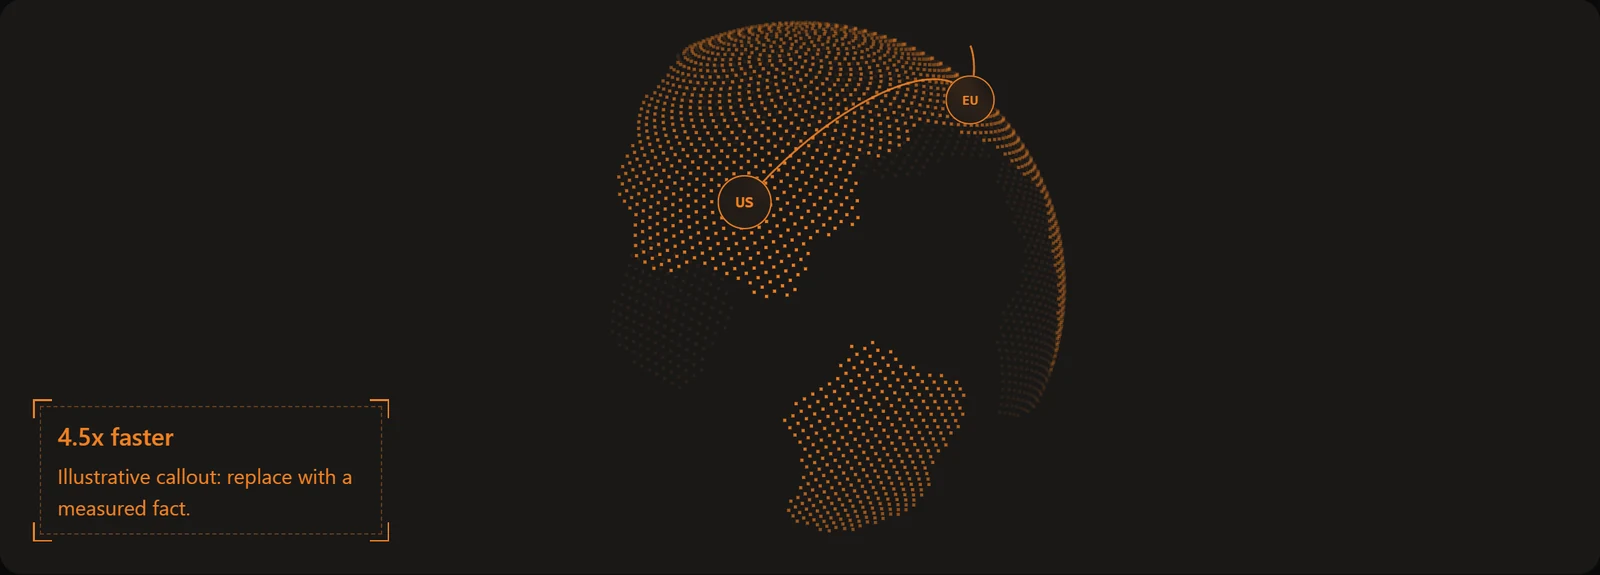
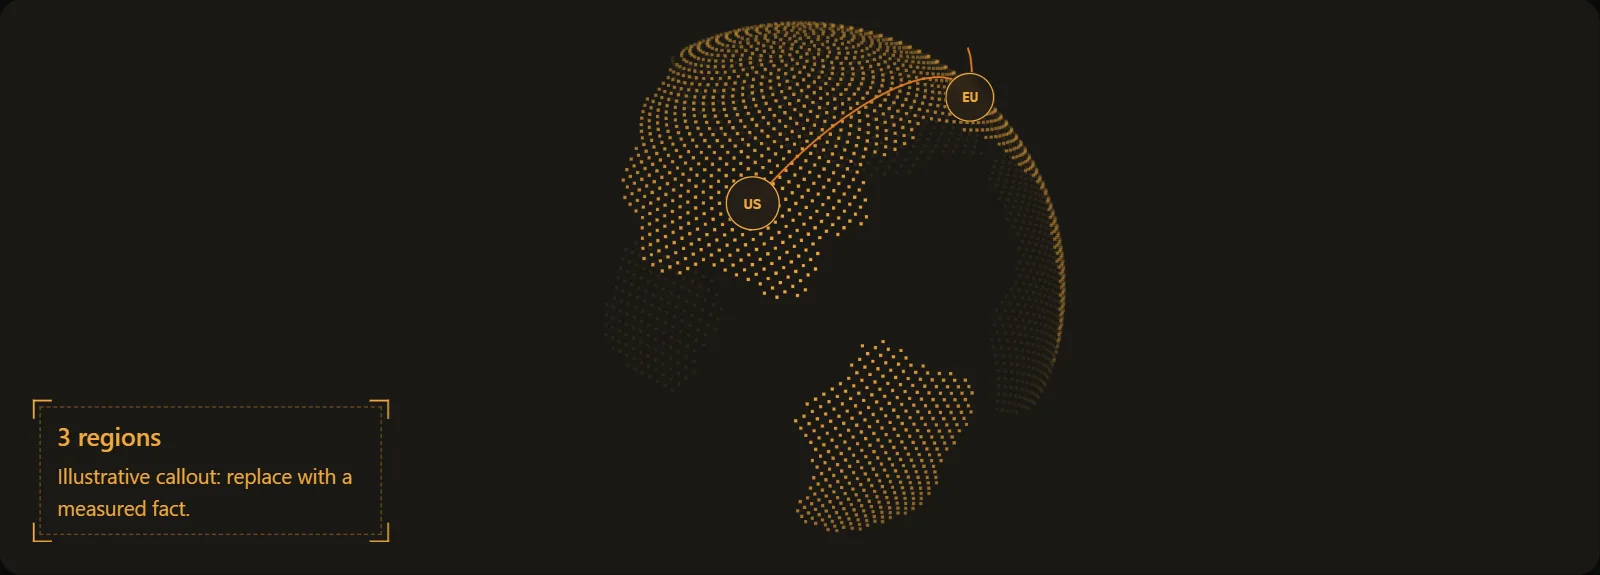
docs(effects): rebuild the gallery around a neutral placeholder product
Replace third-party product content in the effects gallery with the Lumen
placeholder used by the reference page, drop the source-site mention from the
effects library, and re-shoot the README effect images.

diff --git a/skills/better-design/assets/effects/gallery.html b/skills/better-design/assets/effects/gallery.html
@@ -49,23 +49,23 @@
   .stack-controls { display: flex; gap: 12px; align-items: center; margin-top: 16px; }
   .fx-rails { padding-block: 72px; }
   /* dot language demo layout */
-  .warm { --bg: #141312; background: #141312; }
-  .dot-panel { position: relative; border-radius: 16px; padding: 72px 24px; text-align: center; background: #191817; border: 1px solid rgb(240 227 222 / 0.1); }
+  .warm { --bg: #15130f; background: #15130f; }
+  .dot-panel { position: relative; border-radius: 16px; padding: 72px 24px; text-align: center; background: #1a1814; border: 1px solid rgb(240 230 214 / 0.1); }
   .dot-panel h2 { position: relative; }
   .matrix-host { position: relative; height: 180px; }
-  .globe-wrap { position: relative; height: 420px; overflow: hidden; border-radius: 16px; background: #191817; }
+  .globe-wrap { position: relative; height: 420px; overflow: hidden; border-radius: 16px; background: #1a1814; }
   .globe-host { position: absolute; inset: 0; }
-  .marker { width: 40px; height: 40px; border-radius: 50%; border: 1px solid #f38020; background: rgb(25 24 23 / 0.6); backdrop-filter: blur(6px); display: grid; place-items: center; color: #f38020; font: 600 12px/1 ui-monospace, monospace; pointer-events: none; }
-  .globe-callout { position: absolute; left: 24px; bottom: 24px; color: #f38020; max-width: 260px; text-align: left; background-color: rgb(25 24 23 / 0.7); }
+  .marker { width: 40px; height: 40px; border-radius: 50%; border: 1px solid #f2a93b; background: rgb(26 24 20 / 0.6); backdrop-filter: blur(6px); display: grid; place-items: center; color: #f2a93b; font: 600 12px/1 ui-monospace, monospace; pointer-events: none; }
+  .globe-callout { position: absolute; left: 24px; bottom: 24px; color: #f2a93b; max-width: 260px; text-align: left; background-color: rgb(26 24 20 / 0.7); }
   .globe-callout b { display: block; font-size: 18px; font-weight: 500; margin-bottom: 4px; }
-  .band { color: #f38020; padding: 24px; border-radius: 16px; background: #191817; }
-  .bars { height: 120px; color: rgb(255 255 255 / 0.55); background: #f06a1d; border-radius: 16px; }
+  .band { color: #f2a93b; padding: 24px; border-radius: 16px; background: #1a1814; }
+  .bars { height: 120px; color: rgb(255 255 255 / 0.55); background: #d98f2b; border-radius: 16px; }
   .led-row { display: flex; gap: 28px; align-items: center; flex-wrap: wrap; color: #e4e5e9; }
   .led-row span { display: inline-flex; gap: 10px; align-items: center; font-size: 13px; color: var(--body); }
   .bolt-grid { display: grid; grid-template-columns: repeat(auto-fit, minmax(220px, 1fr)); }
-  .bolt-grid > div { padding: 28px; border-right: 1px solid rgb(240 227 222 / 0.1); }
+  .bolt-grid > div { padding: 28px; border-right: 1px solid rgb(240 230 214 / 0.1); }
   .bolt-grid > div:last-child { border-right: 0; }
-  .comet-card { padding: 24px; border-radius: 16px; background: #191817; border: 1px solid rgb(240 227 222 / 0.1); max-width: 420px; --fx-comet-color: #f38020; }
+  .comet-card { padding: 24px; border-radius: 16px; background: #1a1814; border: 1px solid rgb(240 230 214 / 0.1); max-width: 420px; --fx-comet-color: #f2a93b; }
   .chips { display: flex; gap: 10px; overflow-x: auto; scrollbar-width: none; padding-block: 4px; }
   .chips::-webkit-scrollbar { display: none; }
   .chips > span { flex: none; padding: 8px 14px; border-radius: 99px; border: 1px solid rgb(255 255 255 / 0.14); color: var(--body); font-size: 14px; }
@@ -84,7 +84,7 @@
 
 <header class="fx-header" id="hdr">
   <nav class="fx-header__bar" aria-label="Demo">
-    <a class="logo" href="#">Kumo-like</a><a href="#field">Field</a><a href="#bake">Bake</a><a href="#ruler">Ruler</a><a href="#stack">Stack</a>
+    <a class="logo" href="#">Lumen</a><a href="#field">Field</a><a href="#bake">Bake</a><a href="#ruler">Ruler</a><a href="#stack">Stack</a>
   </nav>
 </header>
 
@@ -98,10 +98,10 @@
       <div class="fx-field" id="fieldHost"><div class="fx-field__fallback"></div></div>
       <div class="fx-field-scrim"></div>
       <div class="fx-hairline-sheen"></div>
-      <h2>Make your first request <span class="fx-metal">today</span></h2>
+      <h2>Light that sets <span class="fx-metal">itself</span></h2>
       <div class="row">
-        <a class="btn fx-ring fx-nudge" href="#">Get an API key <span class="fx-nudge__icon" aria-hidden="true">→</span></a>
-        <a class="btn btn--ghost" href="#">Read the API docs</a>
+        <a class="btn fx-ring fx-nudge" href="#">Find your lamp <span class="fx-nudge__icon" aria-hidden="true">→</span></a>
+        <a class="btn btn--ghost" href="#">Compare models</a>
       </div>
     </div>
   </section>
@@ -115,7 +115,7 @@
   <!-- fx:coverflow -->
   <section class="demo">
     <p class="id">fx:coverflow</p>
-    <div class="fx-coverflow" id="cover" tabindex="0" aria-label="Models"></div>
+    <div class="fx-coverflow" id="cover" tabindex="0" aria-label="Lamps"></div>
   </section>
 
   <!-- fx:hover-set -->
@@ -133,25 +133,25 @@
   <section class="demo route">
     <p class="id">fx:signal-route</p>
     <div class="panel" style="padding:24px">
-      <svg viewBox="0 0 580 380" fill="none" role="img" aria-label="One key routes requests to three providers">
+      <svg viewBox="0 0 580 380" fill="none" role="img" aria-label="One hub sends scenes to three rooms">
         <rect x="18" y="160" width="120" height="60" rx="8" stroke="currentColor" stroke-opacity=".3"/>
-        <text x="30" y="195" fill="currentColor" font-size="13">Your project</text>
+        <text x="30" y="195" fill="currentColor" font-size="13">Your phone</text>
         <rect x="232" y="140" width="140" height="100" rx="10" stroke="currentColor" stroke-opacity=".3"/>
-        <text x="272" y="195" fill="currentColor" font-size="15">Router</text>
+        <text x="287" y="195" fill="currentColor" font-size="15">Hub</text>
         <path d="M138 190 H232" stroke="currentColor" stroke-opacity=".3" stroke-width="1.6"/>
         <g style="color:#709bdc">
           <path d="M372 172 H418 V60 H506" stroke="currentColor" stroke-width="1.6" opacity=".2"/>
-          <g class="fx-route__branch" style="animation-delay:0s"><path d="M372 172 H418 V60 H506" stroke="currentColor" stroke-width="1.6"/><rect x="501" y="55" width="10" height="10" stroke="currentColor" stroke-width="1.6" fill="#0b0b0e"/><text x="506" y="42" fill="currentColor" font-size="13" text-anchor="middle">OpenAI</text></g>
+          <g class="fx-route__branch" style="animation-delay:0s"><path d="M372 172 H418 V60 H506" stroke="currentColor" stroke-width="1.6"/><rect x="501" y="55" width="10" height="10" stroke="currentColor" stroke-width="1.6" fill="#0b0b0e"/><text x="506" y="42" fill="currentColor" font-size="13" text-anchor="middle">Study</text></g>
           <rect class="fx-route__packet" width="7" height="7" x="-3.5" y="-3.5" fill="currentColor" style="offset-path:path('M372 172 H418 V60 H506');animation-delay:0s"/>
         </g>
         <g style="color:#bd9172">
           <path d="M372 190 H506" stroke="currentColor" stroke-width="1.6" opacity=".2"/>
-          <g class="fx-route__branch" style="animation-delay:4s"><path d="M372 190 H506" stroke="currentColor" stroke-width="1.6"/><rect x="501" y="185" width="10" height="10" stroke="currentColor" stroke-width="1.6" fill="#0b0b0e"/><text x="506" y="172" fill="currentColor" font-size="13" text-anchor="middle">Anthropic</text></g>
+          <g class="fx-route__branch" style="animation-delay:4s"><path d="M372 190 H506" stroke="currentColor" stroke-width="1.6"/><rect x="501" y="185" width="10" height="10" stroke="currentColor" stroke-width="1.6" fill="#0b0b0e"/><text x="506" y="172" fill="currentColor" font-size="13" text-anchor="middle">Hallway</text></g>
           <rect class="fx-route__packet" width="7" height="7" x="-3.5" y="-3.5" fill="currentColor" style="offset-path:path('M372 190 H506');animation-delay:4s"/>
         </g>
         <g style="color:#8ca89b">
           <path d="M372 208 H418 V320 H506" stroke="currentColor" stroke-width="1.6" opacity=".2"/>
-          <g class="fx-route__branch" style="animation-delay:8s"><path d="M372 208 H418 V320 H506" stroke="currentColor" stroke-width="1.6"/><rect x="501" y="315" width="10" height="10" stroke="currentColor" stroke-width="1.6" fill="#0b0b0e"/><text x="506" y="350" fill="currentColor" font-size="13" text-anchor="middle">Google</text></g>
+          <g class="fx-route__branch" style="animation-delay:8s"><path d="M372 208 H418 V320 H506" stroke="currentColor" stroke-width="1.6"/><rect x="501" y="315" width="10" height="10" stroke="currentColor" stroke-width="1.6" fill="#0b0b0e"/><text x="506" y="350" fill="currentColor" font-size="13" text-anchor="middle">Bedroom</text></g>
           <rect class="fx-route__packet" width="7" height="7" x="-3.5" y="-3.5" fill="currentColor" style="offset-path:path('M372 208 H418 V320 H506');animation-delay:8s"/>
         </g>
       </svg>
@@ -168,9 +168,9 @@
   <section class="demo" id="stack">
     <p class="id">fx:story-stack</p>
     <div class="stack-wrap fx-stack" id="stackHost">
-      <article class="fx-stack__card"><h3>Indie developer</h3><p>One key for every model in the side project.</p></article>
-      <article class="fx-stack__card"><h3>Enterprise platform</h3><p>Limits and spend per team.</p></article>
-      <article class="fx-stack__card"><h3>AI agency</h3><p>Separate projects per client.</p></article>
+      <article class="fx-stack__card"><h3>Home office</h3><p>Neutral, even light from nine to six.</p></article>
+      <article class="fx-stack__card"><h3>Reading nook</h3><p>Warm light that dims as the evening goes.</p></article>
+      <article class="fx-stack__card"><h3>Studio</h3><p>True colour for paint and photo work.</p></article>
       <div class="stack-controls" style="position:absolute;bottom:-56px;left:0">
         <button class="btn btn--ghost" type="button" data-fx-stack-next>Next</button>
         <button class="btn btn--ghost" type="button" data-fx-stack-toggle aria-pressed="false">Pause</button>
@@ -178,11 +178,11 @@
       </div>
     </div>
   </section>
-  <!-- ═══ Dot language (Cloudflare / Linear) ═══ -->
+  <!-- ═══ Dot language ═══ -->
   <section class="demo" id="dots">
     <p class="id">fx:dot-field · spotlight · fade-center</p>
     <div class="dot-panel fx-dots fx-dots--spotlight fx-dots--fade-center" id="dotPanel">
-      <h2>Region: Earth</h2>
+      <h2>Every room, mapped</h2>
       <p style="color:var(--body);position:relative">Move the pointer: the dots under it brighten.</p>
     </div>
   </section>
@@ -197,7 +197,7 @@
     <div class="globe-wrap" id="globeWrap">
       <div class="globe-host" id="globeHost"></div>
       <div class="marker" id="mk1">EU</div><div class="marker" id="mk2">US</div><div class="marker" id="mk3">SG</div>
-      <div class="globe-callout fx-bracket fx-bracket--dashed"><b>4.5x faster</b>Illustrative callout: replace with a measured fact.</div>
+      <div class="globe-callout fx-bracket fx-bracket--dashed"><b>3 regions</b>Illustrative callout: replace with a measured fact.</div>
     </div>
   </section>
 
@@ -220,35 +220,35 @@
     <p class="id">fx:bolts · fx:seam-dashed</p>
     <div class="bolt-grid fx-bolted">
       <i class="fx-bolt fx-bolt--tl"></i><i class="fx-bolt fx-bolt--tr"></i><i class="fx-bolt fx-bolt--bl"></i><i class="fx-bolt fx-bolt--br"></i>
-      <div><b>Security</b><p style="color:var(--body)">One plate of the grid.</p></div>
-      <div><b>Compute</b><p style="color:var(--body)">Corners are bolted, not rounded.</p></div>
-      <div><b>Network</b><p style="color:var(--body)">The border stops at each bolt.</p></div>
+      <div><b>Sensor</b><p style="color:var(--body)">One plate of the grid.</p></div>
+      <div><b>Battery</b><p style="color:var(--body)">Corners are bolted, not rounded.</p></div>
+      <div><b>Body</b><p style="color:var(--body)">The border stops at each bolt.</p></div>
     </div>
   </section>
 
   <section class="demo">
     <p class="id">fx:comet-beam · active state</p>
-    <div class="comet-card fx-comet" id="comet"><b>Streaming response</b><p style="color:var(--body)">The comet runs only while this card is active.</p>
+    <div class="comet-card fx-comet" id="comet"><b>Firmware updating</b><p style="color:var(--body)">The comet runs only while this card is active.</p>
       <button class="btn btn--ghost" type="button" id="cometToggle" aria-pressed="true">Stop</button></div>
   </section>
 
   <section class="demo">
     <p class="id">fx:scroll-fade-edges</p>
     <div class="chips fx-scroll-fade" tabindex="0" aria-label="Products">
-      <span>Network &amp; CDN</span><span>SASE / Zero Trust</span><span>Compute &amp; Storage</span><span>AI Gateway</span><span>Workers</span><span>R2</span><span>D1</span><span>Queues</span><span>Durable Objects</span><span>Images</span><span>Stream</span><span>Pages</span>
+      <span>Desk lamps</span><span>Floor lamps</span><span>Pendants</span><span>Wall lights</span><span>Light strips</span><span>Bulbs</span><span>Hub</span><span>Remote</span><span>Dimmer</span><span>Sensors</span><span>Mounts</span><span>Spare parts</span>
     </div>
   </section>
 
   <section class="demo">
     <p class="id">fx:rotating-phrase</p>
-    <p class="phrase-line">Everything needed to <span id="phrase">build secure applications</span></p>
+    <p class="phrase-line">Light that adjusts to <span id="phrase">late reading</span></p>
   </section>
 
-  <!-- ═══ Apple ═══ -->
+  <!-- ═══ Scroll scenes ═══ -->
   <section class="demo">
     <p class="id">fx:dotnav-progress</p>
     <div class="slides" id="slides">
-      <div data-on style="background:#16233a">M5</div><div style="background:#2a1a3a">M5 Pro</div><div style="background:#3a2416">M5 Max</div><div style="background:#16302a">Battery</div>
+      <div data-on style="background:#16233a">Mini</div><div style="background:#2a1a3a">Arc</div><div style="background:#3a2416">Halo</div><div style="background:#16302a">Battery</div>
     </div>
     <div class="dotnav-wrap"><div id="dotnavHost"></div></div>
   </section>
@@ -259,7 +259,7 @@
   </section>
 </main>
 
-<section class="theme-scene fx-theme-scrub"><p class="id" style="color:inherit;opacity:.6">fx:theme-scrub</p><h2>Fresh faced.<br>Timelessly made.</h2></section>
+<section class="theme-scene fx-theme-scrub"><p class="id" style="color:inherit;opacity:.6">fx:theme-scrub</p><h2>Built to be left on.<br>Made to be repaired.</h2></section>
 
 <section class="fx-rails"><main><p class="id">fx:blueprint-rails — the seam lines above and below this band</p></main></section>
 
@@ -272,15 +272,15 @@
   window.fxField = BetterFx.mountDitherField(document.getElementById('fieldHost'), { shape: 'warp', bayer: 4, pxSize: 2, scale: 0.6, colorFront: '#ffffff' });
 
   var palettes = [
-    ['#f1d4cb', '#d97757', '#7a3a24'], ['#c9f2e4', '#3fa58a', '#1c4d40'], ['#e2d8ff', '#8c6ff0', '#3e2f78'], ['#f3e1c8', '#c9925a', '#5e4126']
+    ['#f6e4c2', '#d2a24f', '#5c4320'], ['#dcebdf', '#6f9e80', '#26443a'], ['#dae3f2', '#6b85b5', '#29385a'], ['#ececea', '#9b9b96', '#3a3a38']
   ];
-  var names = [['Anthropic', 'Claude Opus'], ['OpenAI', 'GPT Astra'], ['xAI', 'Grok'], ['DeepSeek', 'V4.1 Flash']];
+  var names = [['Desk lamp', 'Lumen Mini', '$129'], ['Floor lamp', 'Lumen Arc', '$249'], ['Pendant', 'Lumen Halo', '$189'], ['Wall light', 'Lumen Slate', '$159']];
   var patterns = ['ribbon', 'rise', 'ribbon', 'camo'];
   function card(i, extra) {
     var a = document.createElement('a');
     a.href = '#'; a.className = 'card fx-grain fx-edge ' + (extra || '');
     a.innerHTML = BetterFx.bakeDither({ pattern: patterns[i % 4], seed: 11 + i * 7, tones: palettes[i % 4], avoid: [{ x: 1.75, y: 0.92, r: 0.22 }] }) +
-      '<header><div class="maker">' + names[i % 4][0] + '</div><h3>' + names[i % 4][1] + '</h3></header><footer><span class="price">1 / 5.5 USD</span></footer>';
+      '<header><div class="maker">' + names[i % 4][0] + '</div><h3>' + names[i % 4][1] + '</h3></header><footer><span class="price">' + names[i % 4][2] + '</span></footer>';
     return a;
   }
   var cards = document.getElementById('bakeCards');
@@ -296,15 +296,15 @@
     var date = new Date(today - (89 - d) * 864e5);
     var bad = d === 23 || d === 61;
     items.push({ major: date.getUTCDay() === 1, tone: bad ? '#f5a524' : null,
-      title: bad ? 'Degraded' : 'Operational', caption: bad ? 'Elevated error rate on one provider' : 'All checks passed',
+      title: bad ? 'Degraded' : 'Operational', caption: bad ? 'One lamp missed a firmware update' : 'All lamps reachable',
       date: date.toLocaleDateString('en-GB', { day: 'numeric', month: 'long', year: 'numeric', timeZone: 'UTC' }) });
   }
-  BetterFx.rulerScrubber(document.getElementById('rulerHost'), { items: items, label: 'Uptime, last 90 days' });
+  BetterFx.rulerScrubber(document.getElementById('rulerHost'), { items: items, label: 'Hub uptime, last 90 days' });
   BetterFx.storyStack(document.getElementById('stackHost'), { ms: 7000 });
 
   // Dot language
   BetterFx.dotSpotlight(document.getElementById('dotPanel'));
-  BetterFx.dotMatrix(document.getElementById('matrixText'), { source: { text: 'EDGE', font: '800 150px system-ui, sans-serif' }, pitch: 7, radius: 2.6, mode: 'threshold', cut: 0.4, color: '#f38020', dim: 0.12, origin: [0, 0.5] });
+  BetterFx.dotMatrix(document.getElementById('matrixText'), { source: { text: 'LUMEN', font: '800 150px system-ui, sans-serif' }, pitch: 7, radius: 2.6, mode: 'threshold', cut: 0.4, color: '#f2a93b', dim: 0.12, origin: [0, 0.5] });
   var C = [[48,-100,24],[60,-110,14],[-15,-60,17],[-35,-65,8],[52,15,13],[62,40,16],[5,20,20],[-20,25,12],[48,90,28],[25,80,12],[35,105,14],[-25,135,13],[65,-40,7]];
   function land(lat, lon) {
     var v = 0;
@@ -316,7 +316,7 @@
     return v > 0.55;
   }
   BetterFx.dotGlobe(document.getElementById('globeHost'), {
-    land: land, color: '#f38020', speed: 5, tilt: 22, lon0: 1.2,
+    land: land, color: '#f2a93b', speed: 5, tilt: 22, lon0: 1.2,
     arcs: [[[50, 10], [40, -95]], [[50, 10], [5, 105]]],
     markers: [{ lat: 50, lon: 10, el: document.getElementById('mk1') }, { lat: 40, lon: -95, el: document.getElementById('mk2') }, { lat: 5, lon: 105, el: document.getElementById('mk3') }]
   });
@@ -334,10 +334,10 @@
   var comet = document.getElementById('comet'), ct = document.getElementById('cometToggle');
   comet.setAttribute('data-active', '');
   ct.addEventListener('click', function () { var on = comet.toggleAttribute('data-active'); ct.textContent = on ? 'Stop' : 'Start'; ct.setAttribute('aria-pressed', String(on)); });
-  BetterFx.rotatingPhrase(document.getElementById('phrase'), { variants: ['build secure applications', 'connect and protect your employees', 'run code close to users'] });
+  BetterFx.rotatingPhrase(document.getElementById('phrase'), { variants: ['late reading', 'video calls', 'the first hour of the morning'] });
   var slides = document.querySelectorAll('#slides > div');
   window.fxDotnav = BetterFx.dotnav(document.getElementById('dotnavHost'), { count: slides.length, ms: 5000, label: 'Highlights',
-    labels: ['M5', 'M5 Pro', 'M5 Max', 'Battery'],
+    labels: ['Mini', 'Arc', 'Halo', 'Battery'],
     onSelect: function (i) { slides.forEach(function (s, n) { if (n === i) s.setAttribute('data-on', ''); else s.removeAttribute('data-on'); }); } });
 </script>
 </body>

diff --git a/skills/better-design/references/effects-library.md b/skills/better-design/references/effects-library.md
@@ -11,13 +11,12 @@ and the checks that keep it from turning into noise. The bench page
 [gallery.html](../assets/effects/gallery.html) shows every effect working; serve the folder
 over `http://` (for example `python -m http.server`) and open it before adapting one.
 
-Origin: patterns observed in October 2026 on kumorouter.com (Next.js, Tailwind, Motion,
-Embla Carousel, Paper Shaders), cloudflare.com (Astro, React Flow background, Three.js
-globe), linear.app (5×5 dot-matrix status icons) and apple.com product pages (timed dot
-navigation, scroll-linked scenes). The recipes are rewritten from the observed behaviour,
-not copied from those sites. Paper Shaders (`@paper-design/shaders-react`, Apache-2.0) is
-the library behind the original live dither field; `cobe` (MIT) is a common ready-made dot
-globe for React projects. See the cards for when a library is worth it.
+Origin: patterns observed in October 2026 on cloudflare.com (Astro, React Flow background,
+Three.js globe), linear.app (5×5 dot-matrix status icons) and apple.com product pages
+(timed dot navigation, scroll-linked scenes). The recipes are rewritten from the observed
+behaviour, not copied from those sites. Paper Shaders (`@paper-design/shaders-react`,
+Apache-2.0) renders a comparable live dither field in React; `cobe` (MIT) is a common
+ready-made dot globe for React projects. See the cards for when a library is worth it.
 
 ## 1. Rules of use
 
@@ -376,14 +375,14 @@ does not advance offscreen. The pill floats over the bottom of the media.
 
 ## 4. Compositions that work
 
-### The Kumo stack
+### The print stack
 
 Near-black canvas with tinted panels (`#0a0a0a`, `#0b0b0e`), white ink, silver grays, two
 accents (blue and copper) used only on the primary action ring. One live `fx:dither-field`
 in the closing CTA band; `fx:dither-bake` with `fx:grain` and `fx:edge` on every catalog
-and blog card, colored by vendor; `fx:blueprint-rails` on section seams;
+and blog card, colored by product line; `fx:blueprint-rails` on section seams;
 `fx:metal-sheen` on the last two words of two headings; `fx:header-morph`; `fx:coverflow`
-for the model catalog; `fx:ruler-scrubber` for uptime; `fx:story-stack` for audiences.
+for the product catalog; `fx:ruler-scrubber` for uptime; `fx:story-stack` for audiences.
 What holds it together: one monochrome print language (dither, grain, hairlines), one
 easing family (expo-out, 500–900 ms for surfaces, 150 ms for ticks), and color held back
 for meaning.
